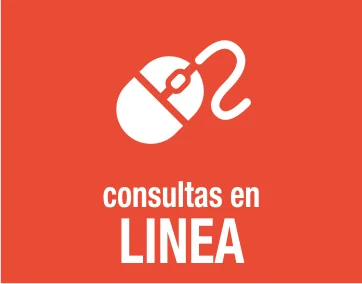
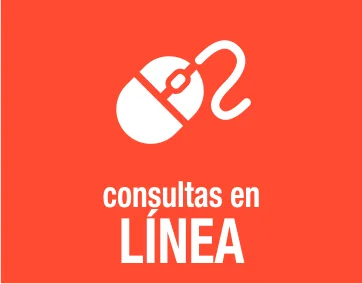
cambios de imagenes (tildes) y modificación de textos

diff --git a/AngularFrontEnd/app/view/servicios/varios/formularios/citaMedica/citaMedica.html b/AngularFrontEnd/app/view/servicios/varios/formularios/citaMedica/citaMedica.html
@@ -256,22 +256,27 @@ select:required:valid {
                         <div class="col-lg-12">
                             <div class="ibox float-e-margins">
                                 <div class="ibox-content" id="caja">
-                                   * L@s ciudadan@s que no cuenten con seguro, deben efectuar el pago (hasta la hora de atención).  
+                                   - L@s ciudadan@s que no cuenten con la cobertura del seguro de salud deberán efectuar el pago de la atención médica en el establecimiento de salud, hasta media hora antes del horario de atención.  
                                     <br>
-                                   * L@s ciudadan@s que cuentan con seguro, deben presentar la hoja de transferencia de manera presencial.
                                     <br>
-                                   * El dia de la atención deberan acudir a su cita, al menos 30 minutos antes de la hora programada.
+                                   - L@s ciudadan@s que cuenten con la cobertura del seguro de salud, deben presentar la hoja de transferencia al llegar al establecimiento de salud.
                                     <br>
-                                   * El ciudadano que realizó la solicitud desde internet y no acudió a su cita, ingresará a una central de riesgos y no podrá solicitar la ficha desde internet, para poder habilitarse debe recurrir a Admisiones del  Hospital y solicitar la habilitación.
                                     <br>
-                                   * Reimprimir ficha en el hospital utilizando:
+                                   - El día de la atención deberán acudir a su cita, al menos 30 minutos antes de la hora programada.
+                                    <br>
+                                    <br>
+                                   - El ciudadano que reservó la atención en línea y no acudió a su cita, ingresará a la central de riesgos y no podrá solicitar la ficha desde internet, para poder habilitarse debe recurrir a Admisiones del hospital y solicitar la habilitación.
+                                    <br>
+                                    <br>
+                                   - Al llegar al hospital debe imprimir su ficha de atención utilizando:
                                    <br>
-                                   &nbsp;&nbsp;&nbsp;&nbsp;&nbsp;1. Su cédula de identidad.
                                    <br>
-                                   &nbsp;&nbsp;&nbsp;&nbsp;&nbsp;2. Su número de historia clínica.
+                                   &nbsp;&nbsp;&nbsp;&nbsp;&nbsp;1. Su cédula de identidad ó su número de historia clínica.
                                    <br>
-                                   &nbsp;&nbsp;&nbsp;&nbsp;&nbsp;3. Fecha de nacimiento.
-                                    <br>
+                                   <br>
+                                   &nbsp;&nbsp;&nbsp;&nbsp;&nbsp;2. Fecha de nacimiento.
+                                   <br>
+                                   <br>
                                     <br>
                                     <div ng-show = "lstatencionesvacias" class="col-sm-12" id="divMsj" style="padding: 20px 27px 9px 25px; display: block;">
                                         <div class="col-sm-2"></div>
